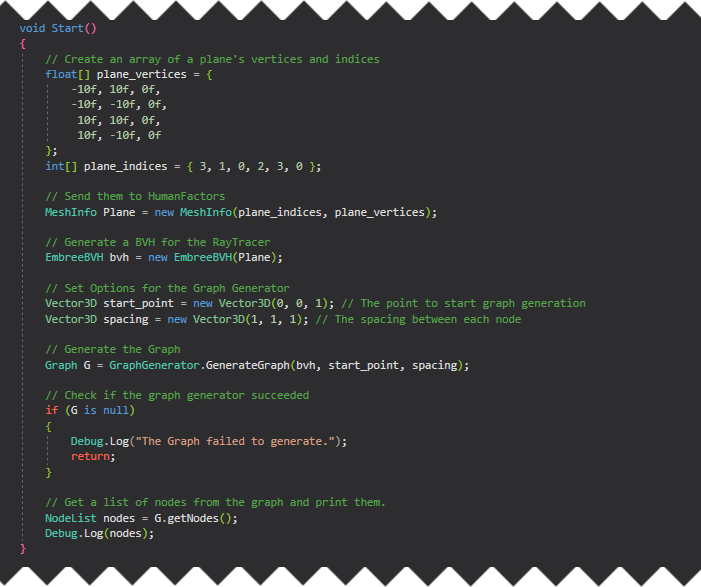
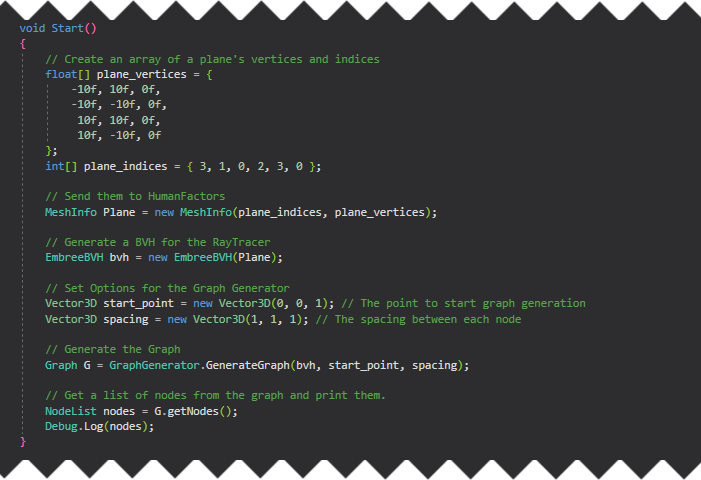
C# Documentation Update

diff --git a/src/Csharp/docs/markdown/4_reading_mesh_from_unity.md b/src/Csharp/docs/markdown/4_reading_mesh_from_unity.md
@@ -55,8 +55,9 @@ After clicking that button, your plane should be moved to the origin like in Fig
 ## Writing the Script
 
 ![Blank Visual Studio Page](walkthroughs/unity/1_project_setup/visual_studio_human_factors_reference.png)
+*Figure* **4.5** *An Empty Script*
 
-Double click on HFExampleScript that we created in the first tutorial to open up Visual Studio if it isn't open already. You should see a blank page like the above.
+Double click on HFExampleScript that we created in the first tutorial to open up Visual Studio if it isn't open already. You should see a blank page like the above. If you're coming from a previous tutorial, *please clear it so it matches this*.
 
 Just like the previous tutorials, we're going to declare which namespaces this script will use in the using section. For now we only need one using declaration. Add this to the top of your script like in the previous tutorials.
 
@@ -68,14 +69,14 @@ Later you will be using different sections depending on whether you're generatin
 
 ### Setup for Adding References Through The Unity Inspector
 
-![PlaneReference](walkthroughs/unity/4_mesh_reading/plane_in_scene.png)
+![PlaneReference](walkthroughs/unity/4_mesh_reading/plane_in_scene.PNG)
 
 *Figure* **4.6**: *Script with a GameObject property*
 
 There are many ways to reference a GameObject in the scene from a script, but for this example we'll be setting up our script so we can select a mesh in the scene from the Unity Inspector. Add a GameObject property to the script like shown on line 7 of figure 4.6.
 
 ```{.cs}
-GameObject PlaneInScene;
+public GameObject PlaneInScene;
 ```
 
 Later we'll use the Unity Inspector to assign the plane in the scene to this property.
@@ -86,11 +87,11 @@ Before we can extract the triangles and vertices from one an instance of a Unity
 
 #### Background on GameObjects and Components
 
-![PlaneReference](walkthroughs/unity/4_mesh_reading/plane_inspector.png)
+![PlaneReference](walkthroughs/unity/4_mesh_reading/plane_inspector.PNG)
 
-*Figure* **4.6**: *Components of the Plane shown in the Unity Inspector*
+*Figure* **4.7**: *Components of the Plane shown in the Unity Inspector*
 
-Minimize Visual Studio then switch back to Unity for a moment. Left click on the plane we created previously, then look at the at the Inspector on the right sidebar. It should look similar to Figure 4.6. Here you can view all information about the plane, such as its position, the material it uses, which mesh it's referencing, etc. You'll notice the inspector is split into several sections: Transform, Meshfilter, Mesh Collider, and MeshRenderer. Each of these sections is a separate **Component** and the object we see in the scene is just a container for those components called a [**GameObject**](https://docs.unity3d.com/Manual/class-GameObject.html).
+Minimize Visual Studio then switch back to Unity for a moment. Left click on the plane we created previously, then look at the Inspector on the right sidebar. It should look similar to Figure 4.7. Here you can view all information about the plane, such as its position, the material it uses, which mesh it's referencing, etc. You'll notice the inspector is split into several sections: Transform, Meshfilter, Mesh Collider, and MeshRenderer. Each of these sections is a separate **Component** and the object we see in the scene is just a container for those components called a [**GameObject**](https://docs.unity3d.com/Manual/class-GameObject.html).
 
 As stated in the Unity Documentation:
 
@@ -100,7 +101,7 @@ What this means for us is that the plane we see in the scene is not a Mesh, but 
 
 #### In Practice
 
-A game object's components can be retrieved using the [GetComponent](https://docs.unity3d.com/ScriptReference/GameObject.GetComponent.html) method. Go back to the Visual Studio window. In our script we will store a reference to the plane's mesh filter in a variable named `PlaneFilter` at the beginning of the script's Start() function like so:
+A game object's components can be retrieved using the [GetComponent](https://docs.unity3d.com/ScriptReference/GameObject.GetComponent.html) method. Go back to the Visual Studio window. In our script we will store a reference to the plane's mesh filter in a variable named `PlaneFilter` at the beginning of the script's `Start()` function like so:
 
 ```{.cs}
         MeshFilter PlaneFilter = PlaneInScene.GetComponent<MeshFilter>();
@@ -138,11 +139,11 @@ On line 9, just above the Start() function, add the following method:
     }
 ```
 
-![Convert Vector3 Array](walkthroughs/unity/4_mesh_reading/flatten_vertex_array.png)
+![Convert Vector3 Array](walkthroughs/unity/4_mesh_reading/flatten_vertex_array.PNG)
 
-*Figure* **4.7**: *Location for Vector3ArrayToFloatArray*
+*Figure* **4.8**: *Location for Vector3ArrayToFloatArray*
 
-Now we can call this method with the mesh's vertices as input to get an array usable with HumanFactors. Retrieve the indices and vertices from the mesh by calling its .triangles and .vertices properties, making sure to convert the array of vertices array from an array of Vector3 to an array of floats.
+Now we can call this method with the mesh's vertices as input to get an array usable with HumanFactors. Retrieve the indices and vertices from the mesh by calling its `.triangles` and `.vertices` properties, making sure to convert the array of vertices array from an array of Vector3 to an array of floats.
 
 ```{.cs}
         // Get Triangle Indexes and Vertices from the Mesh
@@ -161,10 +162,9 @@ Before we can continue to using this mesh it's important to cover a significant 
 
 ### Transforming the Mesh From Y-Up to Z-Up
 
-![UnityCoords](walkthroughs/unity/4_reading_mesh_from_unity/../4_mesh_reading/unity_coordinate_system.png)
-![RhinoCoords](walkthroughs/unity/4_mesh_reading/rhino_coordinates.png)
+![UnityCoords](walkthroughs/unity/4_mesh_reading/unity_coordinate_system.png) ![RhinoCoords](walkthroughs/unity/4_mesh_reading/rhino_coordinates.PNG)
 
-*Figure* **4.8**: *Left: Unity's coordinate system. Right: HumanFactors's Coordinate system*
+*Figure* **4.9**: *Left: Unity's coordinate system. Right: HumanFactors's Coordinate system*
 
 The Graph Generator expects geometry to be stored as if the Z-Axis were up as shown in the picture on the right. In Unity however, the Y-Axis is up, as shown in the left picture, meaning that we'll get inaccurate results if we use the mesh as is. To solve this, *MeshInfo* has a method *RotateMesh* that allows it to rotate itself after  is has been constructed. Another class in the Geometry namespace titled *CommonRotations* contains the rotation necessary to perform this conversion.
 
@@ -175,7 +175,7 @@ Enter the following code to rotate the plane to the correct orientation:
         PlaneMeshInfo.RotateMesh(CommonRotations.Yup_To_Zup);
 ```
 
-Now that the plane is in the correct orienteation, we are ready to move on to verifying that we loaded the mesh successfully.
+Now that the plane is in the correct orientation, we are ready to move on to verifying that we loaded the mesh successfully.
 
 ### Choose code From Previous Tutorial to Verify Results
 
@@ -231,16 +231,73 @@ public class HFExampleScript : MonoBehaviour
 }
 ```
 
-[Screenshot of the entire code until this point](walkthroughs/unity/4_mesh_reading/end_of_getting_mesh.png)
+![Screenshot of the entire code until this point](walkthroughs/unity/4_mesh_reading/end_of_getting_mesh.png)
 
 To see if we're successfully reading the mesh from the scene, *pick either the graph generator or the raytracer tutorial to use for testing*.  Substitute `PlaneMeshInfo` everywhere the code from the previous tutorials use `Plane`. The code you take from the other sections should be added directly after the line containing `PlaneMeshInfo.RotateMesh()`.
 
 The lines you should copy for each tutorial are:
 
-- Lines 30 - 49 for the Graph Generator.
-- Lines 28 - 43 for the Raytracer.
+#### Graph Generator
 
-Make sure to copy over any other using declarations that the selected tutorial uses, since those are required for it to function. Once you've finished this, ***SAVE*** your script, minimize Visual Studio, and switch to the Unity Editor.
+Add the following using statments:
+
+```{.cs}
+using HumanFactors;
+using HumanFactors.RayTracing;
+using HumanFactors.Geometry;
+```
+
+Copy and paste lines Lines 30 - 42 from the Graph Generator tutorial:
+
+```{.cs}
+        // Generate a BVH for the RayTracer
+        EmbreeBVH bvh = new EmbreeBVH(PlaneMeshInfo);
+
+        // Set Options for the Graph Generator
+        Vector3D start_point = new Vector3D(0, 0, 1);
+        Vector3D spacing = new Vector3D(1, 1, 1);
+
+        // Generate the Graph
+        Graph G = GraphGenerator.GenerateGraph(bvh, start_point, spacing);
+
+        // Get a list of nodes from the graph and print them.
+        NodeList nodes = G.getNodes();
+        Debug.Log(nodes);
+```
+
+#### Ray Tracer
+
+Add the following using statments:
+
+```{.cs}
+using HumanFactors;
+using HumanFactors.SpatialStructures;
+using HumanFactors.GraphGenerator;
+using HumanFactors.RayTracing;
+```
+
+Copy and paste lines 28 - 43 from the raytracer tutorial:
+
+```{.cs}
+        // Generate a BVH from the MeshInfo instance
+        EmbreeBVH bvh = new EmbreeBVH(PlaneMeshInfo);
+
+        // Define origin and direction
+        Vector3D origin = new Vector3D(1, 0, 1);
+        Vector3D direction = new Vector3D(0, 0, -1);
+
+        // Cast the ray, store the hitpoint
+        Vector3D intersection_point = EmbreeRaytracer.IntersectForPoint(bvh, origin, direction);
+
+        // Print the x, y, and z components of the intersection_point
+        Debug.Log(
+            "(" + intersection_point.x +
+            "," + intersection_point.y +
+            "," + intersection_point.z +
+        ")")
+```
+
+**Make sure to copy over any other using declarations that the selected tutorial uses**, since those are required for it to function. Once you've finished this, ***SAVE*** your script, minimize Visual Studio, and switch to the Unity Editor.
 
 ## Testing the Script
 
@@ -250,21 +307,21 @@ Like in the previous tutorials, drag the HFExampleScript onto the Main Camera ob
 
 ![Unity Inspector New Attribute](walkthroughs/unity/4_mesh_reading/inspect_new_attribute.png)
 
-*Figure* **4.9**: *Red circle: Main Camera, Highlighted: PlaneInScene Reference, Blue Circle: Assign Reference Button*
+*Figure* **4.10**: *Red circle: Main Camera, Highlighted: PlaneInScene Reference, Blue Circle: Assign Reference Button*
 
-Click on the Main Camera in the left under the scene hierarchy. Notice that the HF Example Script component now has a new element under it titled *Plane In Scene*. This is the class member we created earlier, and we must assign it to the Plane we created. To assign the plane to this script, click the icon to the right of *Plane In Scene* (Circled in blue in Figure 4.9).
+Click on the Main Camera in the left under the scene hierarchy. Notice that the HF Example Script component now has a new element under it titled *Plane In Scene*. This is the class member we created earlier, and we must assign it to the Plane we created. To assign the plane to this script, click the icon to the right of *Plane In Scene* (Circled in blue in Figure 4.10).
 
 ![Gameobject Select Window](walkthroughs/unity/4_mesh_reading/gameobject_select_window.png)
 
-*Figure* **4.10**: *Gameobject Select Window*
+*Figure* **4.11**: *Gameobject Select Window*
 
-A new window will appear asking you to select a game object. Double click on Plane, highlighted in Figure 4.10, then look back at the Unity Inspector.
+A new window will appear asking you to select a game object. Double click on Plane, highlighted in Figure 4.11, then look back at the Unity Inspector.
 
 ![Gameobject Select Window](walkthroughs/unity/4_mesh_reading/inspect_with_plane.png)
 
-*Figure* **4.11**: *Inspector With Plane*
+*Figure* **4.12**: *Inspector With Plane*
 
-You should now see the plane in the Unity Inspector next to PlaneInScene, like in Figure 4.11. If you see this, then you have successfully added the plane to the script as a reference.
+You should now see the plane in the Unity Inspector next to PlaneInScene, like in Figure 4.12. If you see this, then you have successfully added the plane to the script as a reference.
 
 ### Comparing Output
 

diff --git a/src/Csharp/docs/markdown/1_unity_project_setup.md b/src/Csharp/docs/markdown/1_unity_project_setup.md
@@ -38,11 +38,11 @@ In this guide we will cover the following:
 
 To begin, open the Unity Hub then click the *NEW* button to create a new project.
 
-![Choose Project Type](walkthroughs/unity/1_project_setup/unity_choose_project_type.PNG)
+![Choose Project Type](walkthroughs/unity/1_project_setup/unity_choose_project_type.png)
 
 *Figure* **1.2**: *The Create a Project Dialog*
 
-Select your desired project type, directory, and project name. For the sake of this tutorial, we will be using the *3D* project type and naming our project *HumanFactorsUnitySetup*. When done with this, press the *Create* button to create the project and wait while Unity imports all the necessary files.
+Select your desired project type, directory, and project name. For the sake of this tutorial, we will be using the *3D* project type and naming our project *HumanFactorsUnitySetup*, but you can name your project whatever you want. When done with this, press the *Create* button to create the project and wait while Unity imports all the necessary files.
 
 ![Empty Unity Scene](walkthroughs/unity/1_project_setup/blank_unity_scene.PNG)
 
@@ -52,13 +52,13 @@ Upon completion you should be greeted by an empty Unity scene.
 
 ## Importing the Human Factors Library
 
-Now that we have created a blank project, we need to import the HumanFactors' binaries as assets so Unity can see and interface with them.
+Now that we have created a blank project, we need to import the HumanFactors binaries as assets so Unity can see and interface with them.
 
 ![Moving the bin folder into the assets directory](walkthroughs/unity/1_project_setup/bin_to_assets.png)
 
 *Figure* **1.4**: *Dragging the HumanFactors bin folder into the Unity Project*
 
-Unzip the HumanFactors release package to another location (Don't try to drag and drop assets from a zipped folder, you will get an error), then, as shown in Figure 1.4, drag the `bin` folder from the location you extracted the release to into the Unity Editor's assets window. Once you've done this, Unity should display the *bin* folder alongside the existing *Scenes* folder.
+If the HumanFactors release package is zipped, unzip the contents to another location before copying it or  you will get an error when trying to import it.  Once you have the files, as shown in Figure 1.4, drag the `bin` folder from the location you extracted the release to into the Unity Editor's assets window. Once you've done this, Unity should display the *bin* folder alongside the existing *Scenes* folder.
 
 > **NOTE**: If you accidentally drag the bin folder into the *Scenes* folder or anywhere else that would cause two copies of the same dll to exist at the same time, delete any duplicates before proceding. Multiple copies of the same DLL will cause conflicts and may result in Unity being unable to load it in the future steps. You'll know this has happened if you see the following error `Multiple plugins with the same name 'humanfactors' (found at 'Assets/Scenes/bin/HumanFactors.dll' and 'Assets/bin/HumanFactors.dll')...` at the bottom of the screen.
 >![Duplicate DLL Error](walkthroughs/unity/1_project_setup/duplicate_dll_error.png)
@@ -72,15 +72,15 @@ The binaries have been added to our project as assets, but let's make sure Unity
 
 *Figure* **1.5**: *Creating a new C# Script*
 
-Right click on a blank space in the assets window, hover over *Create*, then click *C# Script*.
+To create a new script, right click on a blank space in the assets window, hover over *Create*, then click *C# Script*.
 
-![Don't click anything! Rename the script](walkthroughs/unity/1_project_setup/../2_raycast_at_plane/rename_script.png)
+![Don't click anything! Rename the script](walkthroughs/unity/2_raycast_at_plane/rename_script.png)
 
 *Figure*  **1.6**: *Renaming a new script*
 
 Looking in the assets window, you should notice a new script file next to Scenes directory titled NewBehaviourScript.cs by default, and the name of it is highlighted in blue indicatign that you can rename it. Rename the script to HFExampleScript.cs.
 
-> **NOTE:** If you didn't name the file properly you can change the name of the script by right clicking on it and clicking *Rename*
+> **NOTE:** If you didn't name the file properly you can change the name of the script by right clicking on it and clicking *Rename*. This won't change the name of the class that the script contains however, so be prepared to change that when we open it. 
 >![Rename Dialog](walkthroughs/unity/1_project_setup/../2_raycast_at_plane/rename_dialog.png)
 
 ![Double Click On Script](walkthroughs/unity/1_project_setup/double_click_on_script.png)
@@ -114,4 +114,4 @@ Below is a link to the unity project created in this tutorial.
 
 In this tutorial, we went through the process of creating unity project and adding the Analysis toolkit to the project. In the following tutorials, we will use this basis for using the modules that come with the Analysis toolkit.
 
-In the next tutorial: [Using the Raytracer](@ref UsingTheRayTracer) we will use HumanFactors to create a plane, cast a ray at it, then get the point where the ray intersected the plane.
+In the next tutorial: [Using the Raytracer](@ref UsingTheRaytracer) we will use HumanFactors to create a plane, cast a ray at it, then get the point where the ray intersected the plane.

diff --git a/src/Csharp/docs/markdown/3_graph_generator.md b/src/Csharp/docs/markdown/3_graph_generator.md
@@ -29,12 +29,11 @@ For now, we will begin with the minimum required settings to run the Graph Gener
 2. A point to start graph generation at.
 3. The spacing between nodes.
 
-
 ![HFExampleScriptBlank](walkthroughs/unity/2_raycast_at_plane/blank_new_behaviour_script.png)
 
 *Figure* **3.1** *Blank HFExampleScript.cs*
 
-To begin: open the blank HFExample Script that we created in the project setup by double clicking on it in the Unity editor if it isn't open already. 
+To begin: open the blank HFExample Script that we created in the project setup by double clicking on it in the Unity editor if it isn't open already.  You should see a blank page like the above. If you're coming from a previous script, please clear it so it matches this. 
 
 ### Using Declarations
 
@@ -78,7 +77,7 @@ Add the following code in the body of the Start method on line 13:
         EmbreeBVH bvh = new EmbreeBVH(Plane);
 ```
 
-[Picture of the start method at this point](walkthroughs/unity/3_graph_generator/creating_the_plane.PNG)
+![Picture of the start method at this point](walkthroughs/unity/3_graph_generator/creating_the_plane.PNG)
 
 ### Generating the Graph
 
@@ -114,7 +113,7 @@ All of that together is:
         Graph G = GraphGenerator.GenerateGraph(bvh, start_point, spacing);
 ```
 
-[Picture of entire Start method until this point.](walkthroughs/unity/3_graph_generator/generating_the_graph.PNG)
+![Picture of entire Start method until this point.](walkthroughs/unity/3_graph_generator/generating_the_graph.PNG)
 
 ### Retrieving a list of nodes
 
@@ -128,7 +127,7 @@ Enter the following code at the bottom of the start method:
         Debug.Log(nodes);
 ```
 
-[Picture of entire Start method Until this Point](walkthroughs/unity/3_graph_generator/print_nodes.png)
+![Picture of entire Start method Until this Point](walkthroughs/unity/3_graph_generator/print_nodes.png)
 
 ### Save and Test
 
@@ -168,18 +167,11 @@ public class HFExampleScript : MonoBehaviour
         EmbreeBVH bvh = new EmbreeBVH(Plane);
 
         // Set Options for the Graph Generator
-        Vector3D start_point = new Vector3D(0, 0, 1); // The point to start graph generation
-        Vector3D spacing = new Vector3D(1, 1, 1); // The spacing between each node
+        Vector3D start_point = new Vector3D(0, 0, 1);
+        Vector3D spacing = new Vector3D(1, 1, 1);
 
         // Generate the Graph
         Graph G = GraphGenerator.GenerateGraph(bvh, start_point, spacing);
-
-        // Check if the graph generator succeeded
-        if (G is null)
-        {
-            Debug.Log("The Graph failed to generate.");
-            return;
-        }
 
         // Get a list of nodes from the graph and print them.
         NodeList nodes = G.getNodes();
@@ -254,7 +246,7 @@ Now, if the graph fails to generate,  our code will print a clear error message 
 
 To test that our null check is successful, we'll go to *line 34* and change our start point to be at (200, 0, 1) instead of (0,0,1): `Vector3D start_point = new Vector3D(200, 0, 1);` This is far, far beyond where our plane is and should result in case 1: the initial ground check failing to find any valid ground.
 
-[Picture of the full Start() method for this test.](walkthroughs/unity/3_graph_generator/checking_for_success.PNG)
+![Picture of the full Start() method for this test.](walkthroughs/unity/3_graph_generator/checking_for_success.PNG)
 
 Since the camera is already setup, all we need to do is enter playmode to test this. Make sure your code matches the picture, **save** the file, minimize Visual Studio, open the Unity editor, then press the play button.
 
@@ -270,4 +262,4 @@ Here is a link the full project created in this guide: [Full Project](Tutorial%2
 
 In this tutorial we successfully generated a graph from a bvh, start point, and spacing. We also handled a case where a graph was unable to be generated, and wrote a custom error message to be printed instead of throwing a null reference exception.
 
-In the next tutorial, [Reading Meshes From Unity](@ref #MeshFromUnity), we will use geometry from the Unity scene to generate a graph, instead of manually creatng our own plane.
+In the next tutorial, [Reading Meshes From Unity](@ref MeshFromUnity), we will use geometry from the Unity scene to generate a graph, instead of manually creatng our own plane.

diff --git a/src/Csharp/docs/markdown/2_raycast_at_plane.md b/src/Csharp/docs/markdown/2_raycast_at_plane.md
@@ -115,15 +115,15 @@ At this point, your start function should match the following code:
           2, 3, 0
         };
 
-        // Generate a BVH from the MeshInfo instance
+        // Construct a meshinfo instance for the plane
         MeshInfo Plane = new MeshInfo(plane_indices, plane_vertices);
 
-        // Construct a meshinfo instance for the plane
+        // Generate a BVH from the MeshInfo instance
         EmbreeBVH bvh = new EmbreeBVH(Plane);
     }
 ```
 
-[Image in Visual Studio](walkthroughs/unity/2_raycast_at_plane/creating_a_plane.png)
+![Image in Visual Studio](walkthroughs/unity/2_raycast_at_plane/creating_a_plane.png)
 
 With the BVH created, we're ready to call the Raytracer and cast a ray.
 
@@ -143,7 +143,7 @@ Depending on which function you call, the EmbreeRaytracer can return 3 different
 2. The distance from the ray's origin to the point where it intersected the mesh
 3. A boolean true/false for whether the ray intersected the mesh at any point.
 
-For this guide we will use [IntersectForPoint]() to get the point where the ray intersects the mesh. Starting on line 30 call the EmbreeRayTracer's **IntersectForPoint** function with the bvh, origin and direction as arguments.
+For this guide we will use [IntersectForPoint]() to get the point where the ray intersects the mesh. Starting on line 35 call the EmbreeRayTracer's **IntersectForPoint** function with the bvh, origin and direction as arguments.
 
 ```{.cs}
         // Cast the ray, store the hitpoint.
@@ -179,7 +179,7 @@ Here's all of that together:
         ")");
 ```
 
-[Image of our Start() function up until this point](walkthroughs/unity/2_raycast_at_plane/casting_a_ray.png)
+![Image of our Start() function up until this point](walkthroughs/unity/2_raycast_at_plane/casting_a_ray.png)
 
 ### Wrapping Up
 
@@ -210,10 +210,10 @@ public class HFExampleScript : MonoBehaviour
           2, 3, 0
         };
 
-        // Generate a BVH from the MeshInfo instance
+        // Construct a meshinfo instance for the plane
         MeshInfo Plane = new MeshInfo(plane_indices, plane_vertices);
 
-        // Construct a meshinfo instance for the plane
+        // Generate a BVH from the MeshInfo instance
         EmbreeBVH bvh = new EmbreeBVH(Plane);
 
         // Define origin and direction
